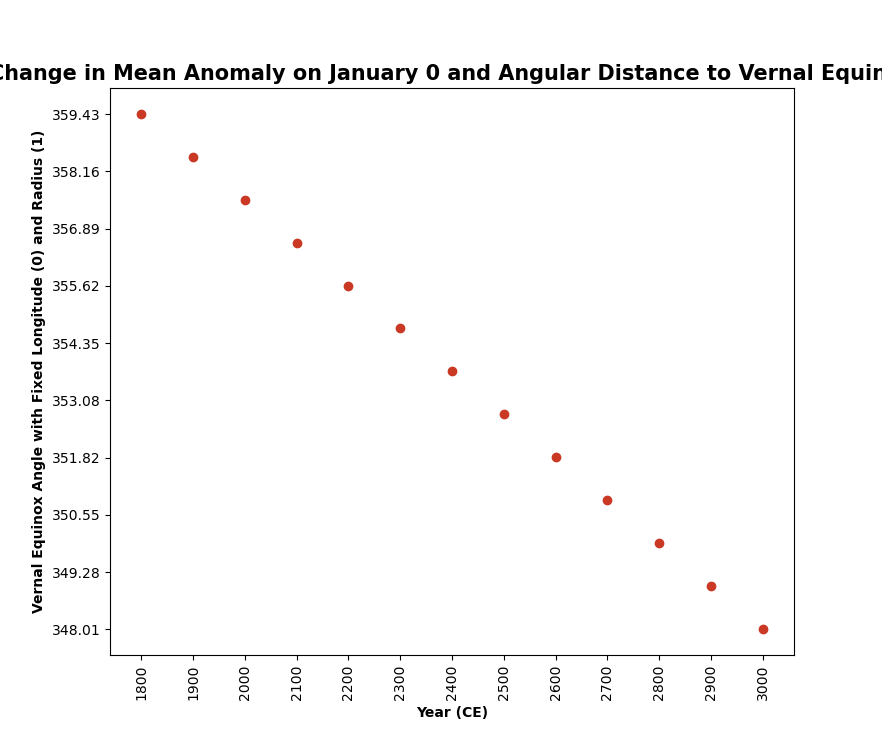
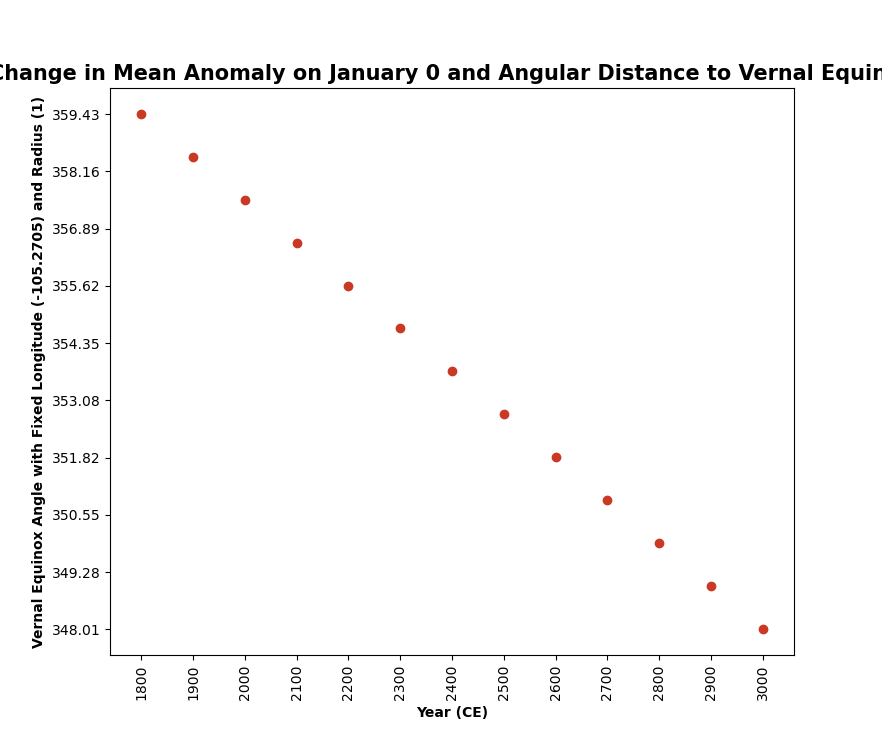
update example plots

Changed region(s): [[0.0306, 0.125, 0.0612, 0.875]]

diff --git a/page_21_astrolabe/calculate_eccentric_calendar_offset.py b/page_21_astrolabe/calculate_eccentric_calendar_offset.py
@@ -7,11 +7,11 @@ import configparser
 import logging
 import matplotlib.pyplot as plt
 
-yearToCalculate = 1961                 # Year (YYYY) in CE
-longitude= 0                           # longitude of observation (-105.2705° for Boulder, 0° for Greenwich)
+yearToCalculate = 2026                 # Year (YYYY) in CE
+longitude = -105.2705                  # longitude of observation (-105.2705° for Boulder, 0° for Greenwich)
 radiusOfPlate = 1                      # radius of the plate
 plot_transparent_background = False    # set the background to transparent
-plotGraphs = True                      # save plots
+plotGraphs = False                     # save plots
 
 def determineApside(julian_time):
 	# Define the line of apsides (longitude of aphelion and perihelion)

diff --git a/README.md b/README.md
@@ -118,17 +118,25 @@ Variables:
 3. Radius of the back plate
 
 ```
-For the Year 2026 at longitude -105.2705° for a plate with a radius of 1.0
-
+For the Year 2026 at longitude -105.2705° for a plate with a radius of 1
+T = 0.260000
 Eccentricity = 0.016698
+Offset of calendar center = 2e = 0.033395
 Perihelion = 103.384456°
 Aphelion   = 283.384456°
-Mean Anomaly of Jan 0 = 357.282167°
-Line of Apside relative to Vernal Equinox for Longitude -105.2705° = -79.62178880296062°
 
-Offset due to Eccentricity with radius of 1.0 = 0.033395
-X offset with radius of 1.0 = -0.007730
-Y offset with radius of 1.0 = 0.032488
+Morrison: Mean Anomaly of Jan 0 = 357.282167°
+Meeus:    Mean Anomaly of Jan 0 = 357.282174°
+Meeus     Mean Anomaly of Jan 0 = 357.280798°
+
+Ecliptic longitude (λ) = -105.27049999999997
+The angular distance from the vernal equinox to January 0 = π + M0 + λ / 365
+(283.38445607308245° + 357.2807975051346° + 105.2705°) / 365
+Line of Apside relative to Vernal Equinox = -78.63685738068705°
+
+Offset due to Eccentricity with radius of 1 = 0.033395
+X offset with radius of 1 = -0.007730
+Y offset with radius of 1 = 0.032488
 ```
 _How Eccentricity Changes over Time_
 ![change_in_year_eccentricity+png](https://github.com/cyschneck/History-Survival-Guide/blob/master/page_21_astrolabe/calculate_eccentric_calendar_offset_outputs/eccentric_calendar_change_in_year_versus_eccentricity.png)
